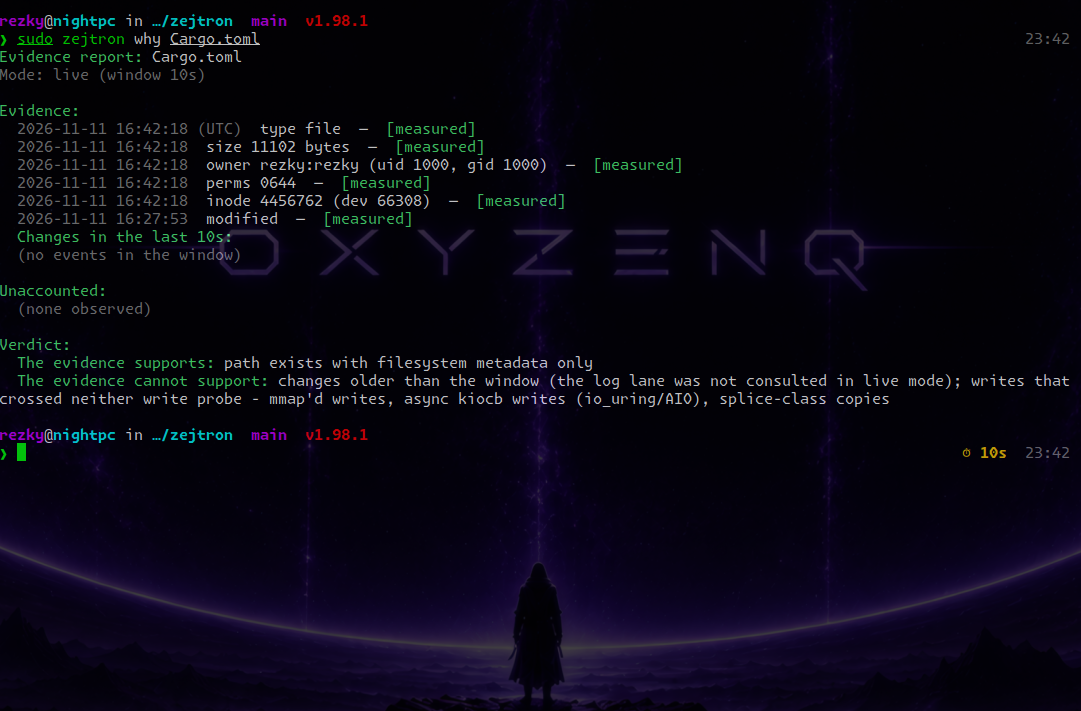
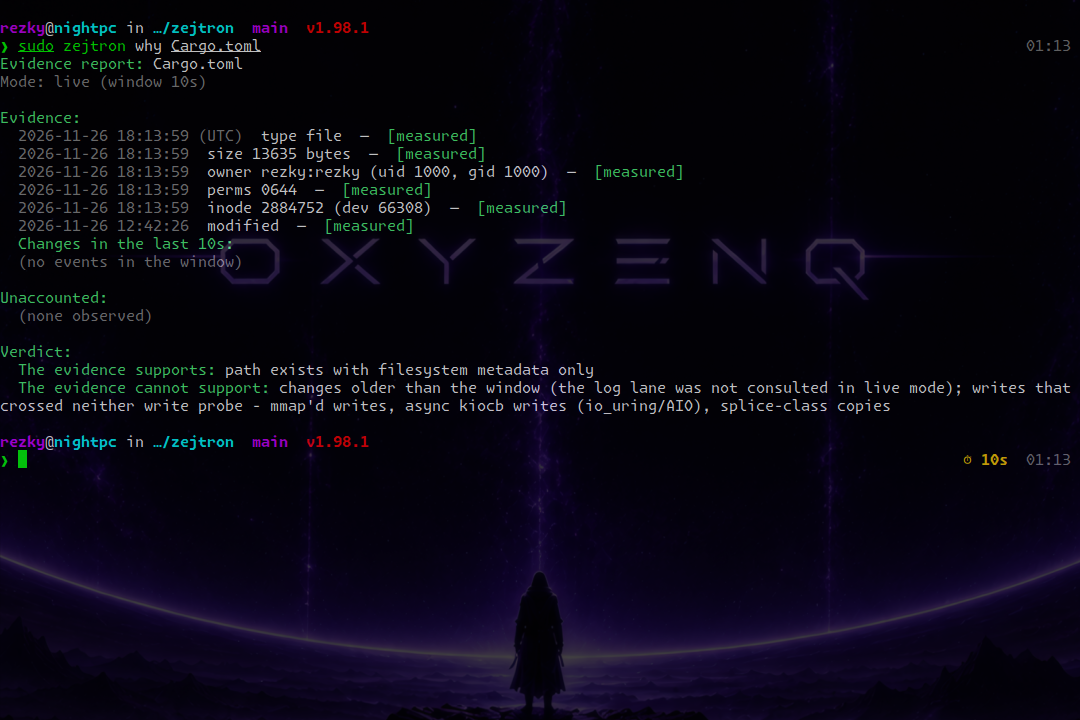
update demo assets
── zejtron/main @ nightpc · 42e7ec4fd543 · 4f +6 −6 · 2026-11-26T18:21:02Z

diff --git a/assets/signature-assets.md b/assets/signature-assets.md
@@ -33,8 +33,8 @@ kept in `b3sum -c` format so the check below is the whole protocol.
 | `assets/qr/bitcoin.png` | bitcoin receive-address QR | 575 |
 | `assets/qr/ethereum.png` | ethereum receive-address QR | 591 |
 | `assets/qr/solana.png` | solana receive-address QR | 595 |
-| `assets/zejtron-demo-doctor.png` | the doctor surface demo capture | 519,707 |
-| `assets/zejtron-demo-why.png` | the why surface demo capture | 466,176 |
+| `assets/zejtron-demo-doctor.png` | the doctor surface demo capture | 549,752 |
+| `assets/zejtron-demo-why.png` | the why surface demo capture | 471,442 |
 | `assets/zejtron-original-logo-2026.png` | the official logo | 1,436,337 |
 
 The canonical digests, in `b3sum -c` checksum format (paths relative to
@@ -46,8 +46,8 @@ dc6108d809afdbbb41756c37ef3ce3eec4b674ed1c8c225678c0103c1e4cfa3b  assets/gpg/pin
 09ec09fcdc4815e23373cb266bb120aa4e1af140fb9d598e117d05478a791b47  assets/qr/bitcoin.png
 4eb520de0fe258d2c82ba07ccba8d9e48bafc63904d022a83cc42b59d1ed2ac7  assets/qr/ethereum.png
 bca56b0a454daf06ff2d57fe401719553e28733e73479de2652a0740a9e87d1a  assets/qr/solana.png
-9ea6142a2e8b088b51b97ba21f0a698cc8aebc6cb6750a3d4e2943cf206d2474  assets/zejtron-demo-doctor.png
-81bef1cf1eec0c4bcf3a4c9ec0fd3968269b9a0d448272c96b83dc68b7b1f58a  assets/zejtron-demo-why.png
+08bc6533734aa4a0f34e995016849f79af5f9bdf11ee43053f645bdecb1edd63  assets/zejtron-demo-doctor.png
+d01fdbd049cf1b49a47d91c3ad793e25e618f5fe4ead01bb408c68e994aee16b  assets/zejtron-demo-why.png
 517a96e06b2276021263a7cbd239c1dac9f828ab1937dd6f05153ecade5cf7d8  assets/zejtron-original-logo-2026.png
 ```
 
